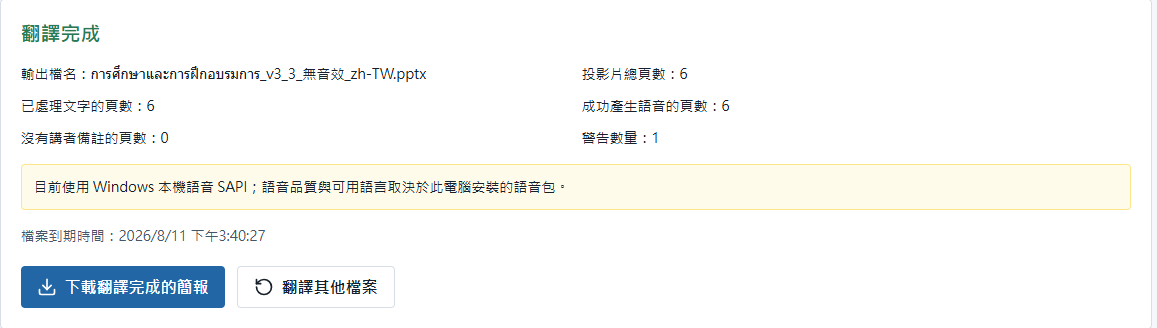
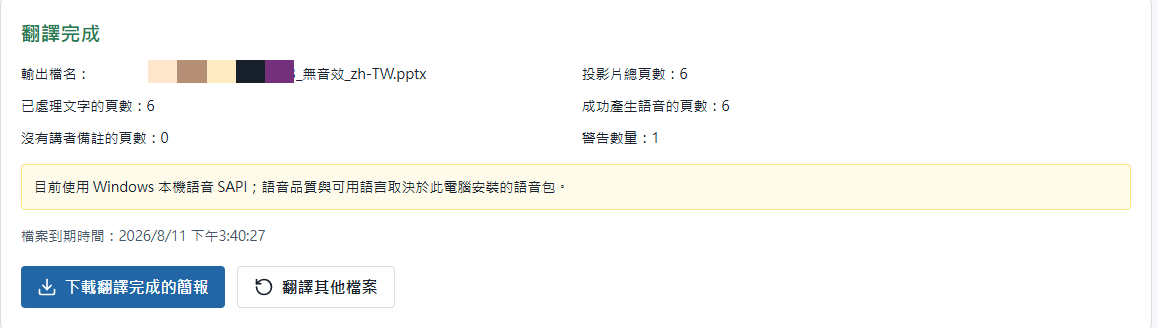
Enhance intro slides interactions

Changed region(s): [[0.0622, 0.1829, 0.28, 0.2744]]

diff --git a/docs/index.html b/docs/index.html
@@ -58,6 +58,21 @@
 
     .slide.active { display: block; }
 
+    .slide.active {
+      animation: slideIn 420ms ease both;
+    }
+
+    @keyframes slideIn {
+      from {
+        opacity: 0;
+        transform: translateY(16px) scale(0.985);
+      }
+      to {
+        opacity: 1;
+        transform: translateY(0) scale(1);
+      }
+    }
+
     .kicker {
       display: inline-flex;
       align-items: center;
@@ -177,6 +192,18 @@
       border: 1px solid var(--line);
       background: #fff;
       box-shadow: 0 10px 30px rgba(16, 35, 63, 0.08);
+      cursor: zoom-in;
+      transition: transform 180ms ease, box-shadow 180ms ease;
+    }
+
+    .shot:hover {
+      transform: translateY(-2px);
+      box-shadow: 0 16px 40px rgba(16, 35, 63, 0.16);
+    }
+
+    .shot:focus-visible {
+      outline: 3px solid rgba(23, 105, 181, 0.45);
+      outline-offset: 4px;
     }
 
     .shot.large {
@@ -287,6 +314,49 @@
       box-shadow: 0 8px 30px rgba(16, 35, 63, 0.12);
     }
 
+    .lightbox {
+      position: fixed;
+      inset: 0;
+      z-index: 20;
+      display: none;
+      place-items: center;
+      padding: 34px;
+      background: rgba(8, 18, 32, 0.72);
+      backdrop-filter: blur(8px);
+    }
+
+    .lightbox.open {
+      display: grid;
+      animation: fadeIn 180ms ease both;
+    }
+
+    .lightbox img {
+      max-width: min(96vw, 1400px);
+      max-height: 88vh;
+      object-fit: contain;
+      border: 1px solid rgba(255, 255, 255, 0.45);
+      background: #fff;
+      box-shadow: 0 30px 90px rgba(0, 0, 0, 0.35);
+    }
+
+    .lightbox button {
+      position: absolute;
+      top: 20px;
+      right: 22px;
+      width: 42px;
+      height: 42px;
+      border-color: rgba(255, 255, 255, 0.4);
+      background: rgba(255, 255, 255, 0.92);
+      color: var(--ink);
+      font-size: 28px;
+      line-height: 1;
+    }
+
+    @keyframes fadeIn {
+      from { opacity: 0; }
+      to { opacity: 1; }
+    }
+
     button {
       width: 38px;
       height: 34px;
@@ -378,7 +448,7 @@
           </ul>
         </div>
         <div>
-          <img class="shot large" src="assets/01-home.png" alt="網站首頁操作介面" />
+          <img class="shot large zoomable" src="assets/01-home.png" alt="網站首頁操作介面" tabindex="0" />
           <p class="caption">首頁畫面：左側上傳，右側集中語言、模型與語音狀態。</p>
         </div>
       </div>
@@ -389,7 +459,7 @@
       <h2>支援三種語言方向</h2>
       <div class="grid-2">
         <div>
-          <img class="shot" src="assets/02-language.png" alt="語言選單畫面" />
+          <img class="shot zoomable" src="assets/02-language.png" alt="語言選單畫面" tabindex="0" />
         </div>
         <div>
           <p class="lead">目前支援繁體中文、英文與泰文。原始語言與目標語言不可相同，語音語言會跟著目標語言檢查。</p>
@@ -429,7 +499,7 @@
           </ul>
         </div>
         <div>
-          <img class="shot" src="assets/03-model.png" alt="翻譯模型選單畫面" />
+          <img class="shot zoomable" src="assets/03-model.png" alt="翻譯模型選單畫面" tabindex="0" />
           <p class="caption">模型選單可在送出前切換，處理中會鎖定避免狀態不一致。</p>
         </div>
       </div>
@@ -462,7 +532,7 @@
       <h2>翻譯中畫面清楚顯示狀態</h2>
       <div class="grid-2">
         <div>
-          <img class="shot large" src="assets/04-progress.png" alt="翻譯進度畫面" />
+          <img class="shot large zoomable" src="assets/04-progress.png" alt="翻譯進度畫面" tabindex="0" />
         </div>
         <div>
           <p class="lead">使用者可以知道目前處理到哪個階段、哪一頁，以及是否仍可停止工作。</p>
@@ -489,7 +559,7 @@
           </ul>
         </div>
         <div>
-          <img class="shot" src="assets/05-complete.png" alt="完成下載畫面" />
+          <img class="shot zoomable" src="assets/05-complete.png" alt="完成下載畫面" tabindex="0" />
           <p class="caption">完成畫面會提示警告，例如本機 SAPI 語音品質取決於安裝的語音包。</p>
         </div>
       </div>
@@ -535,10 +605,19 @@
     <button type="button" id="next" aria-label="下一頁">›</button>
   </nav>
 
+  <div class="lightbox" id="lightbox" role="dialog" aria-modal="true" aria-label="放大圖片">
+    <button type="button" id="closeLightbox" aria-label="關閉放大圖片">×</button>
+    <img id="lightboxImage" src="" alt="" />
+  </div>
+
   <script>
     const slides = Array.from(document.querySelectorAll(".slide"));
     const count = document.getElementById("count");
+    const lightbox = document.getElementById("lightbox");
+    const lightboxImage = document.getElementById("lightboxImage");
+    const closeLightbox = document.getElementById("closeLightbox");
     let index = 0;
+    let lastFocusedImage = null;
 
     function show(nextIndex) {
       index = Math.max(0, Math.min(slides.length - 1, nextIndex));
@@ -553,6 +632,11 @@
     document.getElementById("next").addEventListener("click", () => show(index + 1));
 
     window.addEventListener("keydown", (event) => {
+      if (event.key === "Escape" && lightbox.classList.contains("open")) {
+        closeImage();
+        return;
+      }
+      if (lightbox.classList.contains("open")) return;
       if (["ArrowRight", "PageDown", " "].includes(event.key)) {
         event.preventDefault();
         show(index + 1);
@@ -567,6 +651,35 @@
 
     const initial = Number.parseInt(location.hash.replace("#", ""), 10);
     if (Number.isFinite(initial)) show(initial - 1);
+
+    function openImage(image) {
+      lastFocusedImage = image;
+      lightboxImage.src = image.src;
+      lightboxImage.alt = image.alt;
+      lightbox.classList.add("open");
+      closeLightbox.focus();
+    }
+
+    function closeImage() {
+      lightbox.classList.remove("open");
+      lightboxImage.src = "";
+      if (lastFocusedImage) lastFocusedImage.focus();
+    }
+
+    document.querySelectorAll(".zoomable").forEach((image) => {
+      image.addEventListener("click", () => openImage(image));
+      image.addEventListener("keydown", (event) => {
+        if (event.key === "Enter" || event.key === " ") {
+          event.preventDefault();
+          openImage(image);
+        }
+      });
+    });
+
+    closeLightbox.addEventListener("click", closeImage);
+    lightbox.addEventListener("click", (event) => {
+      if (event.target === lightbox) closeImage();
+    });
   </script>
 </body>
 </html>
